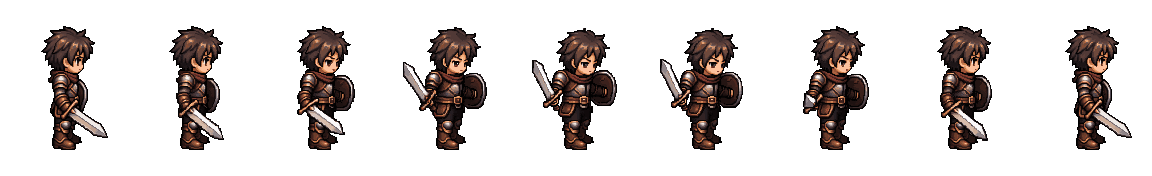
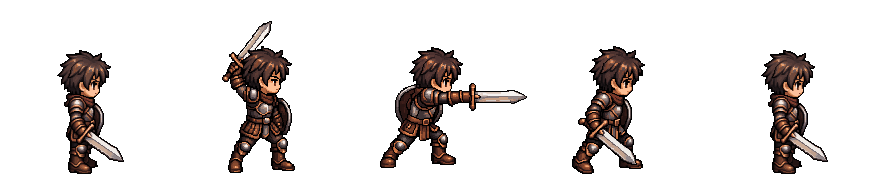
feat(web): Warrior attack from PixelLab keyframes; wider attack cell with pivotX

diff --git a/apps/web/src/AnimationPreview.tsx b/apps/web/src/AnimationPreview.tsx
@@ -6,5 +6,5 @@ export default function AnimationPreview(){
  useEffect(()=>{if(!actions.includes(action))setAction(actions[0]);setFrame(0);},[actor]);
  useEffect(()=>{if(!playing)return;const id=window.setInterval(()=>setFrame(f=>(f+1)%data.frames),Math.max(16,1000/data.fps/speed));return()=>window.clearInterval(id);},[playing,data,speed]);
  const bgClass=bg==='light'?'preview-light':bg==='forest'?'preview-forest':'preview-dark';
- return <main className="animation-preview"><header><span className="eyebrow">DEV · PRÉVIA DE ANIMAÇÕES</span><h1>Folhas de combate</h1><p>Prévia no tamanho lógico usado na caça. A prévia não altera o estado do jogo.</p></header><section className={`preview-stage ${bgClass} ${guides?'with-guides':''}`}><div className="preview-ground"/><div className="preview-sprite" style={{width:(data.cell||combatAssets[actor].cell).width,height:(data.cell||combatAssets[actor].cell).height,bottom:86+144*.12-(data.cell||combatAssets[actor].cell).height*(1-(data.pivotY??.88)),backgroundImage:`url(${data.file})`,backgroundSize:`${(data.cell||combatAssets[actor].cell).width*data.frames}px ${(data.cell||combatAssets[actor].cell).height}px`,backgroundPosition:`-${frame*(data.cell||combatAssets[actor].cell).width}px 0`,transform:`scale(${direction==='right'?-1.05:1.05},1.05)`}}/><span className="preview-frame">quadro {frame+1}/{data.frames}</span></section><section className="preview-controls"><label>Ator<select value={actor} onChange={e=>setActor(e.target.value as CombatActor)}><option value="warrior">Guerreiro</option><option value="bat">Morcego sombrio</option></select></label><label>Ação<select value={action} onChange={e=>{setAction(e.target.value);setFrame(0)}}>{actions.map(a=><option key={a}>{a}</option>)}</select></label><label>Direção<select value={direction} onChange={e=>setDirection(e.target.value)}><option value="left">Esquerda</option><option value="right">Direita (espelho)</option></select></label><label>Velocidade<select value={speed} onChange={e=>setSpeed(Number(e.target.value))}><option value="0.5">0,5×</option><option value="1">1×</option><option value="1.5">1,5×</option><option value="2">2×</option></select></label><div className="preview-buttons"><button onClick={()=>setPlaying(v=>!v)}>{playing?'Pausar':'Reproduzir'}</button><button onClick={()=>setFrame(f=>(f+1)%data.frames)}>Avançar quadro</button><button onClick={()=>setFrame(0)}>Reiniciar</button></div><label>Fundo<select value={bg} onChange={e=>setBg(e.target.value)}><option value="dark">Escuro</option><option value="light">Claro</option><option value="forest">Bosque</option></select></label><label className="check"><input type="checkbox" checked={guides} onChange={e=>setGuides(e.target.checked)}/> célula, pivô e chão</label></section></main>;
+ return <main className="animation-preview"><header><span className="eyebrow">DEV · PRÉVIA DE ANIMAÇÕES</span><h1>Folhas de combate</h1><p>Prévia no tamanho lógico usado na caça. A prévia não altera o estado do jogo.</p></header><section className={`preview-stage ${bgClass} ${guides?'with-guides':''}`}><div className="preview-ground"/><div className="preview-sprite" style={{width:(data.cell||combatAssets[actor].cell).width,height:(data.cell||combatAssets[actor].cell).height,bottom:86+144*.12-(data.cell||combatAssets[actor].cell).height*(1-(data.pivotY??.88)),backgroundImage:`url(${data.file})`,backgroundSize:`${(data.cell||combatAssets[actor].cell).width*data.frames}px ${(data.cell||combatAssets[actor].cell).height}px`,backgroundPosition:`-${frame*(data.cell||combatAssets[actor].cell).width}px 0`,transform:`translateX(${(.5-(data.pivotX??.5))*(data.cell||combatAssets[actor].cell).width}px) scale(${direction==='right'?-1.05:1.05},1.05)`}}/><span className="preview-frame">quadro {frame+1}/{data.frames}</span></section><section className="preview-controls"><label>Ator<select value={actor} onChange={e=>setActor(e.target.value as CombatActor)}><option value="warrior">Guerreiro</option><option value="bat">Morcego sombrio</option></select></label><label>Ação<select value={action} onChange={e=>{setAction(e.target.value);setFrame(0)}}>{actions.map(a=><option key={a}>{a}</option>)}</select></label><label>Direção<select value={direction} onChange={e=>setDirection(e.target.value)}><option value="left">Esquerda</option><option value="right">Direita (espelho)</option></select></label><label>Velocidade<select value={speed} onChange={e=>setSpeed(Number(e.target.value))}><option value="0.5">0,5×</option><option value="1">1×</option><option value="1.5">1,5×</option><option value="2">2×</option></select></label><div className="preview-buttons"><button onClick={()=>setPlaying(v=>!v)}>{playing?'Pausar':'Reproduzir'}</button><button onClick={()=>setFrame(f=>(f+1)%data.frames)}>Avançar quadro</button><button onClick={()=>setFrame(0)}>Reiniciar</button></div><label>Fundo<select value={bg} onChange={e=>setBg(e.target.value)}><option value="dark">Escuro</option><option value="light">Claro</option><option value="forest">Bosque</option></select></label><label className="check"><input type="checkbox" checked={guides} onChange={e=>setGuides(e.target.checked)}/> célula, pivô e chão</label></section></main>;
 }

diff --git a/apps/web/src/World.tsx b/apps/web/src/World.tsx
@@ -19,7 +19,7 @@ export default function World(props:Props){
    preload(){for(const k of ['town','forest','crypt','citadel'])this.load.image(k,`/art/${k}.png`);for(const cls of ['warrior','mage','priest'])for(const skin of [0,1])this.load.spritesheet(`${cls}-${skin}`,`/art/${cls}-${skin}.png`,{frameWidth:32,frameHeight:48});for(let i=0;i<10;i++)this.load.spritesheet(`monster-${i}`,`/art/monster-${i}.png`,{frameWidth:32,frameHeight:48});for(const key of forestAssets)this.load.spritesheet(key,`/art/${key}.png`,{frameWidth:160,frameHeight:112});for(const [key,actions] of Object.entries(combatSheets)){const metadata=key==='warrior-forest'?combatAssets.warrior:combatAssets.bat;const sheet=(action:string)=>{const data=metadata.actions[action as keyof typeof metadata.actions] as CombatAction,size=data.cell||metadata.cell;return [data.file,{frameWidth:size.width,frameHeight:size.height}] as const;};this.load.spritesheet(key,...sheet('idle'));for(const action of actions)this.load.spritesheet(`${key}-${action}`,...sheet(action));}}
    create(){this.backdrop=this.add.image(480,300,'town').setDisplaySize(960,640);for(const key of [...['warrior','mage','priest'].flatMap(c=>[`${c}-0`,`${c}-1`]),...Array.from({length:10},(_,i)=>`monster-${i}`),...forestAssets]){const special=forestAssets.has(key),actions=special?[['idle',0,1,3],['move',0,1,7],['attack',2,3,10],['death',3,3,5]] as const:[['idle',0,2,4],['move',3,5,5],['attack',6,8,9],['death',9,11,5]] as const;for(const [action,start,end,rate] of actions)this.anims.create({key:`${key}-${action}`,frames:this.anims.generateFrameNumbers(key,{start,end}),frameRate:rate,repeat:action==='death'?0:-1});}for(const [key,actions] of Object.entries(combatSheets)){const metadata=key==='warrior-forest'?combatAssets.warrior:combatAssets.bat;for(const action of actions){const data=metadata.actions[action];this.anims.create({key:`${key}-${action}`,frames:this.anims.generateFrameNumbers(`${key}-${action}`,{start:0,end:data.frames-1}),frameRate:data.fps,repeat:data.loop?-1:0});}}this.status=this.add.text(480,152,'',{fontFamily:'Inter,system-ui',fontSize:'18px',color:'#f1dfb4',stroke:'#101817',strokeThickness:5}).setOrigin(.5).setAlpha(0);}
    animate(sprite:Phaser.GameObjects.Sprite,action:string){// Playing an action swaps the texture, so resolve animations from the actor's base key.
-   const key=(sprite.getData('actor') as string|undefined)||sprite.texture.key,actual=key==='warrior-forest'&&action==='move'?'walk':action,animation=`${key}-${actual}`;if(!this.anims.exists(animation))return;sprite.play(animation);const meta=key==='warrior-forest'?combatAssets.warrior:key==='bat-forest'?combatAssets.bat:null;const data=meta?.actions[actual as keyof typeof meta.actions] as CombatAction|undefined;if(data)sprite.setOrigin(.5,data.pivotY??.88);}
+   const key=(sprite.getData('actor') as string|undefined)||sprite.texture.key,actual=key==='warrior-forest'&&action==='move'?'walk':action,animation=`${key}-${actual}`;if(!this.anims.exists(animation))return;sprite.play(animation);const meta=key==='warrior-forest'?combatAssets.warrior:key==='bat-forest'?combatAssets.bat:null;const data=meta?.actions[actual as keyof typeof meta.actions] as CombatAction|undefined;if(data)sprite.setOrigin(data.pivotX??.5,data.pivotY??.88);}
    actor(x:number,y:number,key:string,label:string,scale=3){const detailed=Object.prototype.hasOwnProperty.call(combatSheets,key);const special=forestAssets.has(key);const shadow=this.add.ellipse(x,y+7,detailed?118:special?108:68,detailed?18:special?16:18,0x05080a,.48);const s=this.add.sprite(x,y,key).setData('actor',key).setOrigin(.5,detailed&&key==='warrior-forest'?(combatAssets.warrior.actions.idle as CombatAction).pivotY??.88:.88).setScale(detailed?1.05:scale).play(`${key}-idle`);const t=this.add.text(x,y+(detailed?76:36),label,{fontFamily:'Georgia',fontSize:'17px',color:'#f1e7cf',stroke:'#101718',strokeThickness:5}).setOrigin(.5);this.actors.push(shadow,s,t);return s;}
    float(x:number,y:number,text:string,color:string){const t=this.add.text(x,y,text,{fontSize:'23px',fontFamily:'Georgia',color,stroke:'#111a1e',strokeThickness:5}).setOrigin(.5);if(this.reducedMotion)this.time.delayedCall(900,()=>t.destroy());else this.tweens.add({targets:t,y:y-42,alpha:0,duration:1000,onComplete:()=>t.destroy()});}
    announce(text:string){if(!this.status)return;this.status.setText(text).setAlpha(1);this.tweens.killTweensOf(this.status);if(this.reducedMotion)this.time.delayedCall(1200,()=>this.status?.setAlpha(0));else this.tweens.add({targets:this.status,alpha:0,delay:1000,duration:450});}

diff --git a/apps/web/src/combatAssets.ts b/apps/web/src/combatAssets.ts
@@ -1,10 +1,10 @@
-export type CombatAction={file:string;frames:number;fps:number;durationMs:number;loop:boolean;cell?:{width:number;height:number};pivotY?:number;impact?:{x:number;y:number};impactFrame?:number};
+export type CombatAction={file:string;frames:number;fps:number;durationMs:number;loop:boolean;cell?:{width:number;height:number};pivotY?:number;pivotX?:number;impact?:{x:number;y:number};impactFrame?:number};
 export type CombatActorMetadata={id:string;label:string;cell:{width:number;height:number};pivot:{x:number;y:number};anchors:{feet:{x:number;y:number};shadow:{x:number;y:number};impact?:{x:number;y:number}};source:string;license:string;actions:Record<string,CombatAction>;directions:readonly string[]};
 // PixelLab sheets use 192x192 cells with feet at y=172 (assets/tools/gpt_sprite_pipeline.py).
 const pixellabCell={width:192,height:192};
 const cell={width:112,height:144},pivot={x:.5,y:.88},anchors={feet:{x:.5,y:.88},shadow:{x:.5,y:.96}};
 export const combatAssets:Record<string,CombatActorMetadata>={
- warrior:{id:'cryptidle.warrior.forest.v1',label:'Guerreiro',cell,pivot,anchors,source:'idle/walk: PixelLab, owner-approved model (assets/characters/warrior); other actions: assets/generate_detailed_sprites.py procedural fallback',license:'Original project asset; final license decision belongs to owner',actions:{idle:{file:'/art/warrior-v2-idle.png',frames:4,fps:5,durationMs:800,loop:true,cell:pixellabCell,pivotY:172/192},walk:{file:'/art/warrior-v2-walk.png',frames:8,fps:10,durationMs:800,loop:true,cell:pixellabCell,pivotY:172/192},attack:{file:'/art/warrior-forest-attack.png',frames:6,fps:10,durationMs:600,loop:false,impact:{x:.77,y:.45},impactFrame:3},skill:{file:'/art/warrior-forest-skill.png',frames:6,fps:10,durationMs:600,loop:false,impact:{x:.82,y:.4},impactFrame:3},hurt:{file:'/art/warrior-forest-hurt.png',frames:3,fps:8,durationMs:375,loop:false},death:{file:'/art/warrior-forest-death.png',frames:6,fps:7,durationMs:857,loop:false}},directions:['left','right']},
+ warrior:{id:'cryptidle.warrior.forest.v1',label:'Guerreiro',cell,pivot,anchors,source:'idle/walk/attack: PixelLab, owner-approved model (assets/characters/warrior); other actions: assets/generate_detailed_sprites.py procedural fallback',license:'Original project asset; final license decision belongs to owner',actions:{idle:{file:'/art/warrior-v2-idle.png',frames:4,fps:5,durationMs:800,loop:true,cell:pixellabCell,pivotY:172/192},walk:{file:'/art/warrior-v2-walk.png',frames:8,fps:10,durationMs:800,loop:true,cell:pixellabCell,pivotY:172/192},attack:{file:'/art/warrior-v2-attack.png',frames:5,fps:8,durationMs:630,loop:false,impact:{x:.94,y:.42},impactFrame:2,cell:{width:224,height:192},pivotX:96/224,pivotY:172/192},skill:{file:'/art/warrior-forest-skill.png',frames:6,fps:10,durationMs:600,loop:false,impact:{x:.82,y:.4},impactFrame:3},hurt:{file:'/art/warrior-forest-hurt.png',frames:3,fps:8,durationMs:375,loop:false},death:{file:'/art/warrior-forest-death.png',frames:6,fps:7,durationMs:857,loop:false}},directions:['left','right']},
  bat:{id:'cryptidle.bat.forest.v1',label:'Morcego sombrio',cell,pivot,anchors,source:'assets/generate_detailed_sprites.py; original deterministic Pillow pixel drawings',license:'Original project asset; final license decision belongs to owner',actions:{idle:{file:'/art/bat-forest-idle.png',frames:6,fps:6,durationMs:1000,loop:true},move:{file:'/art/bat-forest-move.png',frames:6,fps:8,durationMs:750,loop:true},attack:{file:'/art/bat-forest-attack.png',frames:6,fps:10,durationMs:600,loop:false,impact:{x:.75,y:.5},impactFrame:3},hurt:{file:'/art/bat-forest-hurt.png',frames:3,fps:8,durationMs:375,loop:false},death:{file:'/art/bat-forest-death.png',frames:6,fps:7,durationMs:857,loop:false}},directions:['left','right']}
 };
 export type CombatActor=keyof typeof combatAssets;

diff --git a/assets/tools/gpt_sprite_pipeline.py b/assets/tools/gpt_sprite_pipeline.py
@@ -109,6 +109,7 @@ def main() -> None:
     ap.add_argument("--frames", type=int, help="poses to use, in reading order (default: all cells)")
     ap.add_argument("--height", type=int, default=120, help="target actor height in px for this action's tallest pose")
     ap.add_argument("--scale-from", type=Path, help="reuse the scale of an approved action JSON so all actions share one body size")
+    ap.add_argument("--cell-width", type=int, default=CELL, help="wider cells for long weapons; feet stay at x=96")
     ap.add_argument("--scale", type=float, help="fixed scale; use 1 for sprites already at native pixel size (e.g. PixelLab)")
     ap.add_argument("--key", help="background key colour as hex (default: sampled from corners)")
     ap.add_argument("--tolerance", type=int, default=90)
@@ -120,6 +121,7 @@ def main() -> None:
     ap.add_argument("--root", type=Path, default=ROOT, help="assets root (override only for tests)")
     args = ap.parse_args()
     root = args.root
+    CW = args.cell_width
 
     cols, rows = (int(v) for v in args.grid.lower().split("x"))
     count = args.frames or cols * rows
@@ -157,24 +159,24 @@ def main() -> None:
     else:
         scale = args.height / tallest
 
-    sheet = Image.new("RGBA", (CELL * count, CELL))
+    sheet = Image.new("RGBA", (CW * count, CELL))
     report = []
     for i, (cell, box, specks) in enumerate(cells):
         fx = feet_x(cell, box)
         actor = pixelate(cell.crop(box), scale, args.colors)
         ox = round(PIVOT[0] - (fx - box[0]) * scale)
         oy = PIVOT[1] - actor.height
-        frame = Image.new("RGBA", (CELL, CELL))
+        frame = Image.new("RGBA", (CW, CELL))
         frame.alpha_composite(actor, (max(-actor.width, ox), oy))
         fb = frame.getbbox() or (0, 0, 0, 0)
-        clipped = ox < 0 or oy < 0 or ox + actor.width > CELL
-        near_edge = fb[0] < EDGE_PAD or fb[1] < EDGE_PAD or fb[2] > CELL - EDGE_PAD
+        clipped = ox < 0 or oy < 0 or ox + actor.width > CW
+        near_edge = fb[0] < EDGE_PAD or fb[1] < EDGE_PAD or fb[2] > CW - EDGE_PAD
         if clipped:
-            warnings.append(f"frame {i}: actor does not fit in {CELL}px cell at this scale (lower --height)")
+            warnings.append(f"frame {i}: actor does not fit in {CW}x{CELL}px cell at this scale (lower --height or raise --cell-width)")
         elif near_edge:
             warnings.append(f"frame {i}: actor within {EDGE_PAD}px of the cell edge")
         frame.save(frames_dir / f"{i:02d}.png")
-        sheet.alpha_composite(frame, (i * CELL, 0))
+        sheet.alpha_composite(frame, (i * CW, 0))
         report.append({"frame": i, "sourceBox": box, "actorHeight": actor.height, "feetX": round(fx * scale - box[0] * scale + ox, 1), "specksRemoved": specks})
 
     heights = [r["actorHeight"] for r in report]
@@ -184,22 +186,22 @@ def main() -> None:
     sheet_path = sheets_dir / f"{args.action}.png"
     sheet.save(sheet_path)
     duration = round(1000 / args.fps)
-    meta = {"actor": args.actor, "action": args.action, "texture": sheet_path.relative_to(root).as_posix(), "frameWidth": CELL, "frameHeight": CELL,
-            "frames": count, "pivot": {"x": PIVOT[0] / CELL, "y": PIVOT[1] / CELL}, "durations_ms": [duration] * count, "loop": args.loop,
+    meta = {"actor": args.actor, "action": args.action, "texture": sheet_path.relative_to(root).as_posix(), "frameWidth": CW, "frameHeight": CELL,
+            "frames": count, "pivot": {"x": PIVOT[0] / CW, "y": PIVOT[1] / CELL}, "durations_ms": [duration] * count, "loop": args.loop,
             "impact_frame": args.impact_frame, "sourceScale": scale, "backgroundKey": ("#%02x%02x%02x" % key) if key else "alpha", "status": "draft",
             "report": report, "warnings": warnings}
     (sheets_dir / f"{args.action}.json").write_text(json.dumps(meta, indent=2) + "\n")
 
     # Review images at 2x on three grounds; the GIF plays at the configured speed.
-    big = [f.resize((CELL * 2, CELL * 2), Image.Resampling.NEAREST) for f in (Image.open(frames_dir / f"{i:02d}.png") for i in range(count))]
-    preview = Image.new("RGBA", (CELL * 2 * count, CELL * 2 * 3))
+    big = [f.resize((CW * 2, CELL * 2), Image.Resampling.NEAREST) for f in (Image.open(frames_dir / f"{i:02d}.png") for i in range(count))]
+    preview = Image.new("RGBA", (CW * 2 * count, CELL * 2 * 3))
     for row, ground in enumerate(((16, 27, 28, 255), (232, 220, 195, 255), (71, 127, 124, 255))):
         for i, f in enumerate(big):
             tile = Image.new("RGBA", f.size, ground)
             tile.alpha_composite(f)
             for x in range(0, f.width, 8):  # pivot line
                 tile.putpixel((x, PIVOT[1] * 2), (215, 170, 96, 255))
-            preview.paste(tile, (i * CELL * 2, row * CELL * 2))
+            preview.paste(tile, (i * CW * 2, row * CELL * 2))
     preview.save(sheets_dir / f"{args.action}-preview.png")
     gif = [Image.alpha_composite(Image.new("RGBA", f.size, (16, 27, 28, 255)), f).convert("P", palette=Image.Palette.ADAPTIVE) for f in big]
     gif[0].save(sheets_dir / f"{args.action}-preview.gif", save_all=True, append_images=gif[1:], duration=duration, loop=0 if args.loop else 1)
@@ -209,8 +211,8 @@ def main() -> None:
         spec = json.loads(spec_path.read_text())
         entry = spec.setdefault("animations", {}).setdefault(args.action, {})
         entry.update({"texture": meta["texture"], "frames": list(range(count)), "durations_ms": meta["durations_ms"], "impact_frame": args.impact_frame, "loop": args.loop})
-        spec["pivot"] = meta["pivot"]
-        spec["frame_size"] = [CELL, CELL]
+        spec.setdefault("animations", {})[args.action]["pivot"] = meta["pivot"]
+        spec["frame_size"] = [CW, CELL]
         spec["status"] = "draft"
         spec["runtime_ready"] = False
         spec_path.write_text(json.dumps(spec, indent=2) + "\n")
